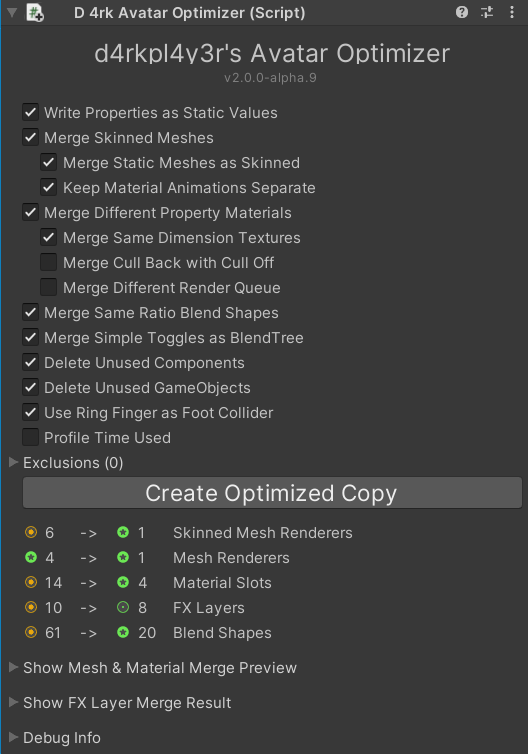
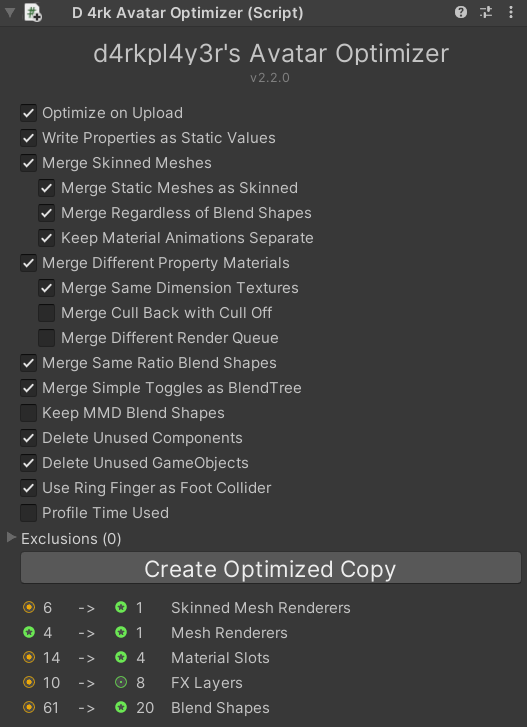
finalize v2.2.0 readme

diff --git a/Editor/d4rkAvatarOptimizerEditor.cs b/Editor/d4rkAvatarOptimizerEditor.cs
@@ -65,7 +65,6 @@ public class d4rkAvatarOptimizerEditor : Editor
         Toggle("Delete Unused Components", ref optimizer.DeleteUnusedComponents);
         Toggle("Delete Unused GameObjects", ref optimizer.DeleteUnusedGameObjects);
         Toggle("Use Ring Finger as Foot Collider", ref optimizer.UseRingFingerAsFootCollider);
-        Toggle("Profile Time Used", ref optimizer.ProfileTimeUsed);
 
         if (optimizer.ExcludeTransforms == null)
             optimizer.ExcludeTransforms = new List<Transform>();
@@ -92,8 +91,6 @@ public class d4rkAvatarOptimizerEditor : Editor
             SceneManager.MoveGameObjectToScene(copy, optimizer.gameObject.scene);
             copy.name = optimizer.gameObject.name + "(BrokenCopy)";
             copy.GetComponent<d4rkAvatarOptimizer>().Optimize();
-            if (copy.GetComponent<VRCAvatarDescriptor>() != null)
-                RemoveIllegalComponents(copy);
             copy.name = optimizer.gameObject.name + "(OptimizedCopy)";
             copy.SetActive(true);
             optimizer.gameObject.SetActive(false);
@@ -216,6 +213,7 @@ public class d4rkAvatarOptimizerEditor : Editor
 
         if (Foldout("Debug Info", ref optimizer.ShowDebugInfo))
         {
+            Toggle("Profile Time Used", ref optimizer.ProfileTimeUsed);
             EditorGUI.indentLevel++;
             if (Foldout("Unparsable Materials", ref optimizer.DebugShowUnparsableMaterials))
             {
@@ -481,6 +479,14 @@ public class d4rkAvatarOptimizerEditor : Editor
                 "Check the Debug Info foldout for more info.", MessageType.Warning);
         }
 
+        if (!optimizer.WritePropertiesAsStaticValues && allMaterials.Any(m => CanLockIn(m) && !IsLockedIn(m)))
+        {
+            EditorGUILayout.HelpBox(
+                "Potentially unlocked materials exist.\n" +
+                "Either lock the materials or enable Write Properties as Static Values.\n" +
+                "Check the Debug Info foldout for a full list.", MessageType.Warning);
+        }
+
         if (optimizer.MergeDifferentPropertyMaterials && correctlyParsedMaterials.Any(p => !p.CanMerge()))
         {
             EditorGUILayout.HelpBox(
@@ -502,15 +508,8 @@ public class d4rkAvatarOptimizerEditor : Editor
             EditorGUILayout.HelpBox(
                 "Some materials are locked in.\n" +
                 "Write Properties as Static Values will do effectively the same as locking in while also having more potential to reduce material count.\n" +
+                "If you use \"Rename Animated\" on some locked in shaders keep them locked as the animations will break otherwise." + 
                 "Check the Debug Info foldout for a full list.", MessageType.Info);
-        }
-
-        if (!optimizer.WritePropertiesAsStaticValues && allMaterials.Any(m => CanLockIn(m) && !IsLockedIn(m)))
-        {
-            EditorGUILayout.HelpBox(
-                "Potentially unlocked materials exist.\n" +
-                "Either lock the materials or enable Write Properties as Static Values.\n" +
-                "Check the Debug Info foldout for a full list.", MessageType.Warning);
         }
 
         if (optimizer.MergeDifferentPropertyMaterials && optimizer.MergeSameDimensionTextures && CrunchedTextures.Length > 0)
@@ -537,6 +536,7 @@ public class d4rkAvatarOptimizerEditor : Editor
                     platformSettings.resizeAlgorithm = TextureResizeAlgorithm.Bilinear;
                     platformSettings.overridden = true;
                     platformSettings.format = TextureImporterFormat.BC5;
+                    platformSettings.maxTextureSize = Mathf.Max(tex.width, tex.height);
                     importer.SetPlatformTextureSettings(platformSettings);
                     importer.SaveAndReimport();
                 }
@@ -1067,49 +1067,6 @@ public class d4rkAvatarOptimizerEditor : Editor
         EditorGUILayout.LabelField($"{newValue}", GUILayout.Width(25));
         EditorGUILayout.LabelField(label);
         EditorGUILayout.EndHorizontal();
-    }
-
-    private void RemoveIllegalComponents(GameObject target)
-    {
-        // call VRC.SDK3.Validation.AvatarValidation.RemoveIllegalComponents(target, true) with reflection if it exists
-        var RemoveIllegalComponents = Type.GetType("VRC.SDK3.Validation.AvatarValidation, Assembly-CSharp")
-            ?.GetMethod("RemoveIllegalComponents", BindingFlags.Static | BindingFlags.Public);
-        if (RemoveIllegalComponents != null)
-        {
-            RemoveIllegalComponents.Invoke(null, new object[] { target, true });
-            return;
-        }
-
-        // if not found use newer sdk method with reflection
-        // VRC.SDK3.Validation.AvatarValidation.GetComponentWhitelist()
-        // VRC.SDKBase.Validation.ValidationUtils.RemoveIllegalComponents(GameObject target, HashSet<Type> whitelist, bool retry, bool onlySceneObjects, bool logStripping)
-        var GetComponentWhitelist = Type.GetType("VRC.SDK3.Validation.AvatarValidation, Assembly-CSharp")
-            ?.GetMethod("GetComponentWhitelist", BindingFlags.Static | BindingFlags.NonPublic);
-        RemoveIllegalComponents = Type.GetType("VRC.SDKBase.Validation.ValidationUtils, Assembly-CSharp")
-            ?.GetMethod("RemoveIllegalComponents", BindingFlags.Static | BindingFlags.Public);
-        if (GetComponentWhitelist != null && RemoveIllegalComponents != null)
-        {
-            var whitelist = GetComponentWhitelist.Invoke(null, null) as HashSet<Type>;
-            RemoveIllegalComponents.Invoke(null, new object[] { target, whitelist, true, false, true });
-            return;
-        }
-
-        // if not found we are probably in an VCC version of the sdk which removed the whitelist method
-        // use VRC.SDK3.Validation.AvatarValidation.FindIllegalComponents(target) t get a list of components and call DestroyImmediate on them
-        // also VCC sdks are in a different assembly
-        var findIllegalComponents = Type.GetType("VRC.SDK3.Validation.AvatarValidation, VRC.SDK3A")
-            ?.GetMethod("FindIllegalComponents", BindingFlags.Static | BindingFlags.Public);
-        if (findIllegalComponents != null)
-        {
-            var illegalComponents = findIllegalComponents.Invoke(null, new object[] { target }) as IEnumerable<Component>;
-            foreach (var component in illegalComponents)
-            {
-                DestroyImmediate(component);
-            }
-            return;
-        }
-
-        Debug.LogWarning("Could not find RemoveIllegalComponents method");
     }
 }
 #endif

diff --git a/README.md b/README.md
@@ -3,17 +3,24 @@ d4rkpl4y3r's VRChat avatar 3.0 optimizer that aims to reduce skinned mesh & mate
 
 ## How to Use
 1. Add the d4rkAvatarOptimizer component to your avatar root. It should go on the same object that your VRC Avatar Descriptor is on.
-2. Click the "Create Optimized Copy" button to create a new avatar with optimized materials and meshes.
-3. Upload this optimized copy of your original avatar to vrc.
-4. Delete the copy after you upload it to vrc.
+2. Upload the avatar to vrc. The optimizations will be applied before upload automatically with the default settings.
+
+Alternatively you can click the "Create Optimized Copy" button to create a new avatar with optimized materials and meshes. That way you can test the optimized version in editor to validate it works properly before uploading it. If everything works correctly you can then upload that optimized copy.
 
 ## Limitations
 The optimizer relies on creating custom variations of your shaders that support shader toggles. As such, your avatar might not show up correctly if your shaders are disabled.  
 For toggles that means all meshes that get merged will always be visible. If you use the option [Merge Same Dimension Textures](#merge-same-dimension-textures) and different textures in the `_MainTex` property get merged, those textures will show up as a white material like [here](https://github.com/d4rkc0d3r/d4rkAvatarOptimizer/issues/17) when shaders are blocked.  
-Since it relies on custom shaders, the optimizer also won't work for quest avatars.
+Since it relies on custom shaders, the optimizer also won't work for quest avatars at all.
 
 ## Installation
 To install the optimizer with VCC you need to add the url `https://d4rkc0d3r.github.io/vpm-repos/main.json` as a custom repository.
+
+1. [Click here](https://d4rkc0d3r.github.io/vpm-repos/main_redirect.html)
+2. Allow the redirect to open with VCC
+3. VCC should now be open with a dialog asking you to add the repository
+4. Click I understand, Add Repository in the popup after reading its contents
+
+Alternatively you can do it manually:
 1. Open VCC
 2. Click Settings in the bottom left
 3. Click the Packages tab at the top
@@ -35,18 +42,20 @@ Shaders can do a lot of *weird* things, therefore the optimizer is bound to fail
 
 You can also tell the optimizer to ignore certain parts of the model with the "Exclusions" foldout.  
 Finally you can try to make a bug report and maybe I'll be able to fix it.  
-To do that you need to export the optimizer package folder that contains the optimized shaders. You can do that by right clicking on `d4rkAvatarOptimizer` in the project view under `Packages` and selecting `Export VPM as UnityPackage`.  
-Once you have done that make a bug report on the [issue tracker](https://github.com/d4rkc0d3r/d4rkAvatarOptimizer/issues) where you can attach the `.unitypackage` file.
+To do that you need to bundle up the optimized `.mat`, `.shader` & `.cginc` files. You can do that by right clicking on `d4rkAvatarOptimizer/TrashBin` in the project view under `Packages` and selecting `Show in Explorer`. A window with the folder selected should open. Go inside the folder and put the files into a `.zip` file. You don't need to include the `.asset` files as they can be very large and don't help when debugging the shaders.  
+Once you have done that make a bug report on the [issue tracker](https://github.com/d4rkc0d3r/d4rkAvatarOptimizer/issues) where you can attach the `.zip` file.
 
-![Export Material](./Documentation~/img/exportVPMasUnityPackage.png)  
-
-If the file is too large you have to manually find the `TrashBin` folder in your file system and only zip all `.mat`, `.shader` and `.cginc` files.
+![Show TrashBin in Explorer](./Documentation~/img/openTrashBinInExplorer.png)
 
 ## UI Options Documentation
 There are also some settings to tweak the optimization. You can read about their effects in more detail here:
 
 ![Example Screenshot](./Documentation~/img/example0.png)
+## Optimize on Upload
+Automatically optimizes the avatar before uploading it to vrc. This is non destructive, the avatar in your scene will stay as it is.
 ## Write Properties as Static Values
+This is very similar to what some shaders call locking in or baking.
+
 When enabled the optimizer will replace the uniform parameter definitions with a static value on all materials.  
 For example `uniform float4 _Color;` will get changed to `static float4 _Color = float4(1, 0, 1, 1);`  
 This enables the shader compiler to do more [constant folding](https://en.wikipedia.org/wiki/Constant_folding) and thus making the shader run faster.  
@@ -70,7 +79,7 @@ Merges materials with the same shader where properties can have different values
 If they do have different values the values will get written to a constant buffer.
 Material IDs get written to uv.w and used to access the correct value from that cbuffer.
 
-If your shader has a "lock in" or "bake" feature, make sure to not use it with this optimizer. Locked in shaders will have different actual shaders for each material, so they can't be combined. "Write Properties as Static Values" will take over the job of locking in the shaders.
+If your shader has a "lock in" or "bake" feature, make sure to not use it with this optimizer if you have "Write Properties as Static Values" enabled. Locked in shaders will have different actual shaders for each material, so they can't be combined. "Write Properties as Static Values" will take over the job of locking in the shaders.
 
 Can't merge materials if:
 * Shader is surface shader or has tessellation
@@ -111,7 +120,7 @@ You can exclude certain parts of the model from all optimizations. Any Transform
 Creates a copy of the avatar and performs the selected optimizations on the copy.
 Disables the original avatar so only the copy is active.  
 None of the original assets will be changed so even if the optimizer fails your avatar is still safe!  
-It also deletes the assets from the previous optimized copy. You should never change the optimized copy, it is only intended to be uploaded and then get deleted again.
+It also deletes the assets from the previous optimized copy. You should never change the optimized copy, it is only intended to be tested/uploaded and then get deleted again.
 
 In addition to the selected optimizations there are some optimizations that are always performed:
 * Remove unused shape keys with zero weight. Unused here means not a viseme nor referenced in any animation in the fx layer.
@@ -119,7 +128,6 @@ In addition to the selected optimizations there are some optimizations that are 
 * Merge identical material slots on skinned meshes.
 * Only reference bones if they have a non-zero weight on any vertex.
 * Add dummy animation to animator states that have no animation specified.
-* Remove illegal avatar components.
 * Remove everything with the EditorOnly tag.
 ## Show Mesh & Material Merge Preview
 Shows a preview of how meshes and materials would get merged.
@@ -148,7 +156,7 @@ Shows all textures that are used as normal maps but don't use the BC5 compressio
 Shows all materials that have a "lock in" or "bake" feature enabled which the optimizer detected. If you want to merge these materials you need to disable the "lock in" or "bake" feature.  
 The optimizer might not detect all forms of "lock in" or "bake" so you might need to check some materials manually.
 ### Penetrators
-Shows all meshes that the optimizer detected as DPS penetrators. If you have some that are not listed here you should add them to the exclusion list. If you don't your penetrators might get merged with other meshes which would always show them to other players if they have your shaders blocked.
+Shows all meshes that the optimizer detected as DPS or TPS penetrators. If you have some that are not listed here you should add them to the exclusion list. If you don't your penetrators might get merged with other meshes which would always show them to other players if they have your shaders blocked.
 ### Unused Components
 Shows all components that will get deleted by "Delete Unused Components".
 ### Always Disabled Game Objects

diff --git a/CHANGELOG.md b/CHANGELOG.md
@@ -1,4 +1,4 @@
-## Next Version
+## v2.2.0
 ### Features
 * Add option to apply optimization on upload instead of creating a copy of the avatar.
 
@@ -6,6 +6,8 @@
 * Improved the warning text for locked in materials / unlocked materials depending on the optimization mode.
 * Changed warnings for materials that can't merge to info boxes instead of warnings.
 * Add TPS support for penetrator detection.
+* No longer remove illegal components from the avatar.
+* Move Profile Time Used to the top of the debug info section.
 
 ### Bug Fixes
 * Fix crash when the avatar has multiple non skinned meshes that try to get merged together without any material that can get merged or no skinned mesh in the merge target. [(more)](https://github.com/d4rkc0d3r/d4rkAvatarOptimizer/issues/34)
